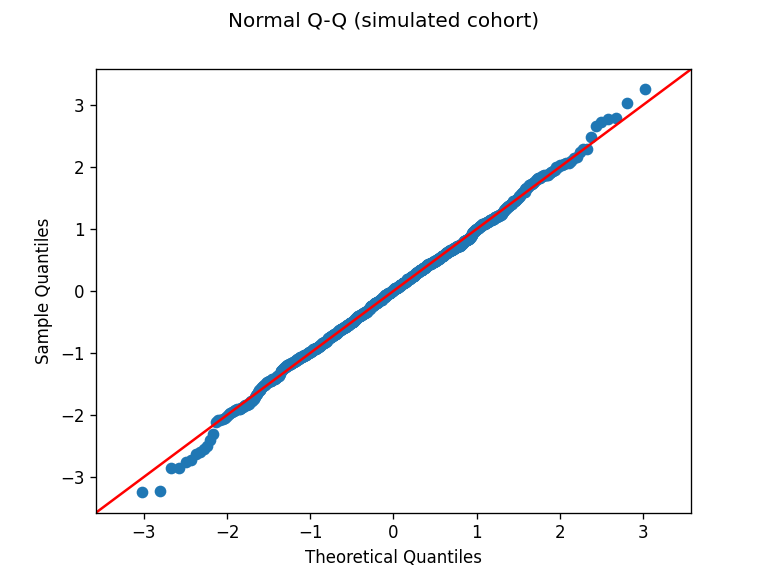
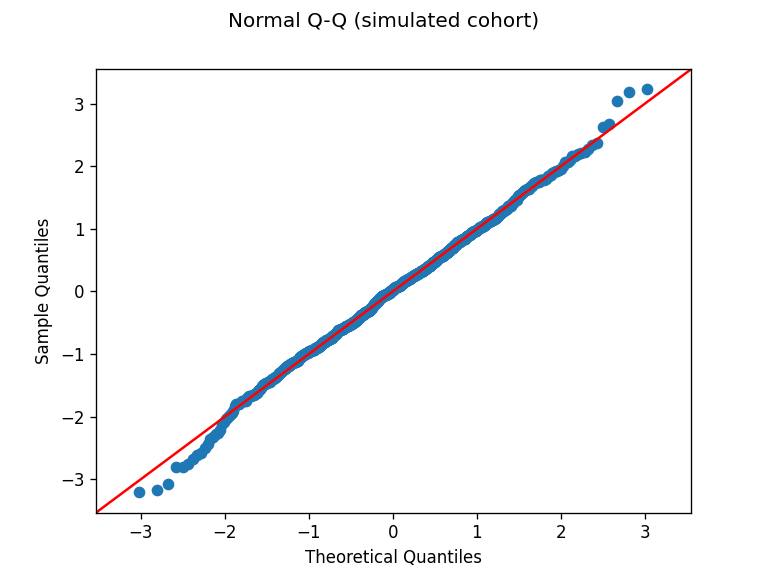
Re-fit fraud + earnings over 12.5k corpus; guard earnings load against view-less channels

diff --git a/apps/ml/earnings.py b/apps/ml/earnings.py
@@ -74,6 +74,9 @@ def load_real(eng) -> pd.DataFrame:
     f["monthly_views"] = (per_video * months).clip(lower=1.0)
     f["posting_cadence_mean"] = f["mean_inter_video_days"].astype(float)
     f["is_long_form"] = (f["mean_duration_seconds"].astype(float) > LONG_FORM_SECONDS).astype(float)
+    # Zero-upload/thin channels have no view data -> NaN monthly_views, which
+    # poisons det.std() in the cohort. Earnings are not estimable without views.
+    f = f.dropna(subset=["monthly_views"]).reset_index(drop=True)
     return f
 
 